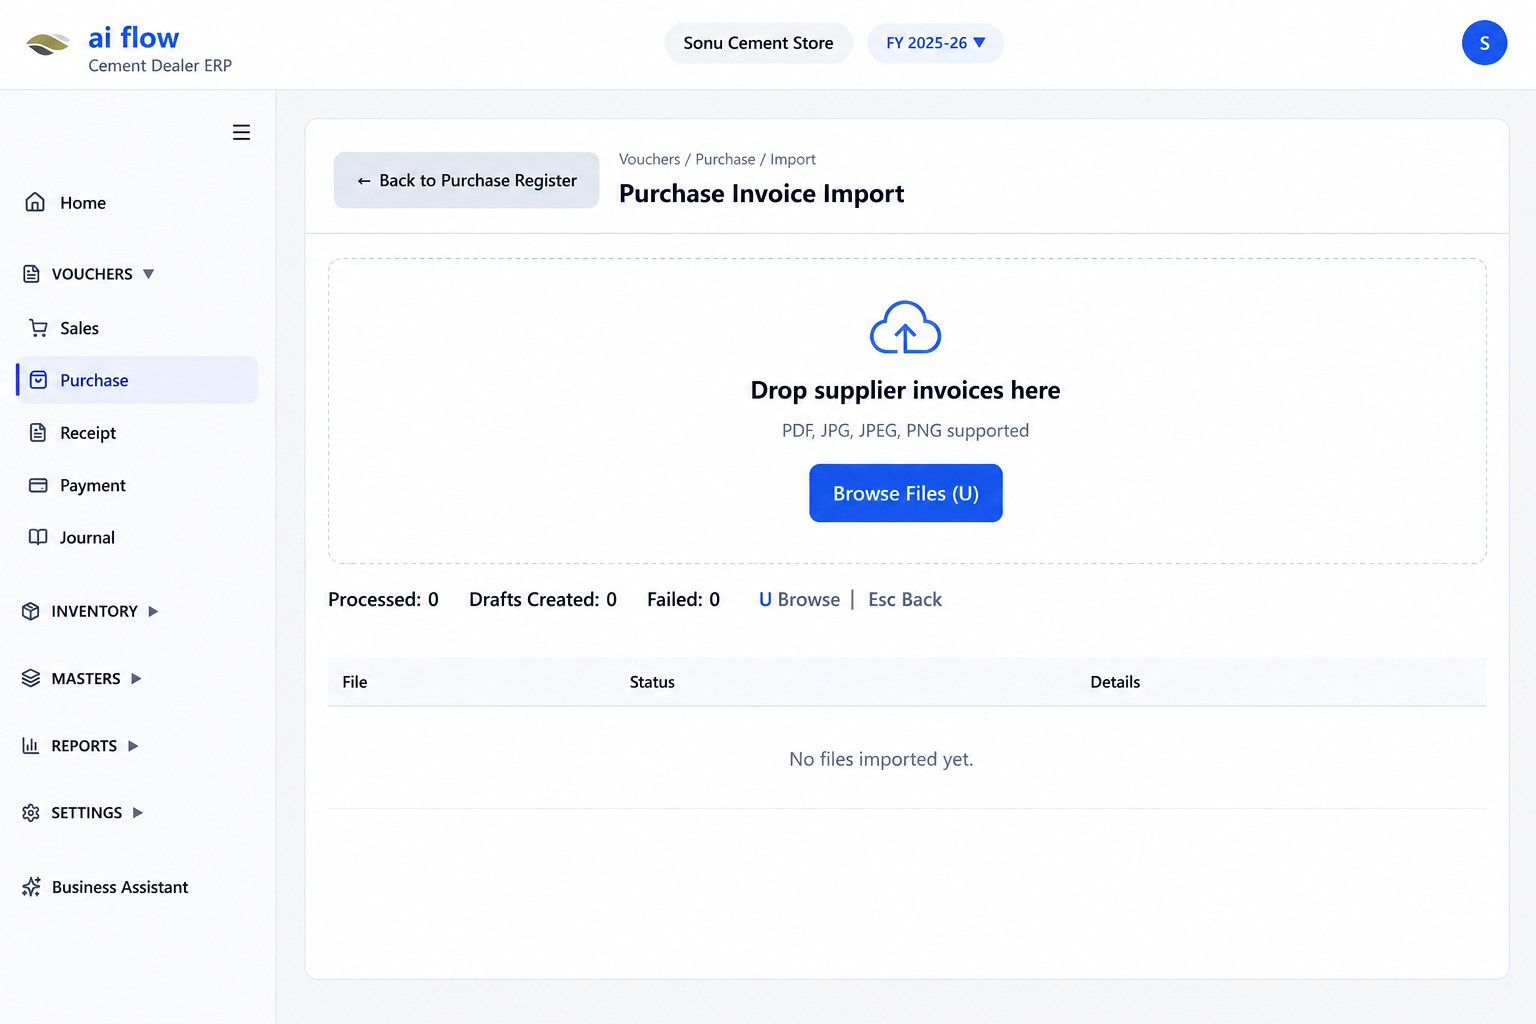
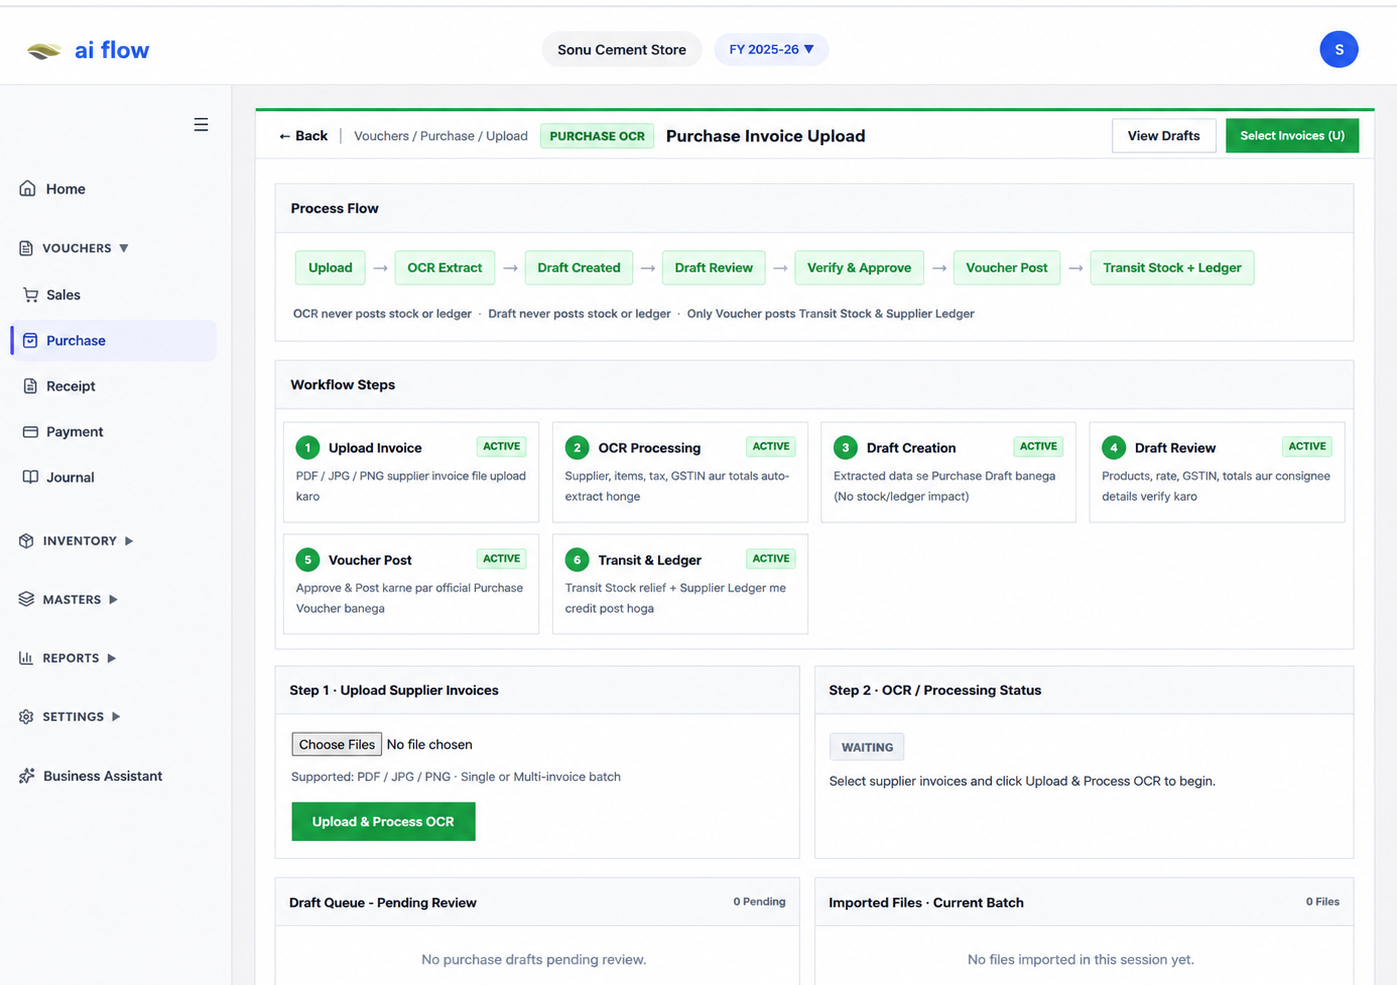
refactor: clean up workflow section styling and remove duplicate CSS
- Removed duplicate .workflow-section styling from globals.css
- Removed duplicated workflow grid and workflow card styles
- Consolidated workflow layout, cards, badges, and note styles into a single definition
- Preserved the existing workflow feature, callout, image, and responsive mobile styling
- Improved CSS maintainability by eliminating repeated selectors
- Kept the existing visual design and responsive behavior unchanged
- Ensured the workflow section has a clean and centralized stylesheet structure

diff --git a/app/globals.css b/app/globals.css
@@ -883,23 +883,7 @@ img {
   object-position: center 45%;
 }
 
-.workflow-image {
-  width: 100%;
-  max-width: 780px;
-  height: auto;
-  margin: 32px auto 36px;
-  overflow: hidden;
-  border: 1px solid var(--line);
-  border-radius: var(--radius-lg);
-  background: #f8fafc;
-  box-shadow: var(--shadow-lg);
-}
 
-.workflow-image img {
-  width: 100%;
-  height: auto;
-  display: block;
-}
 
 .reality-grid {
   display: grid;
@@ -980,18 +964,67 @@ img {
   border-bottom: 1px solid var(--line);
 }
 
-.workflow-rule-callout {
-  margin: 34px 0 38px;
-  padding: 24px 28px;
+/* =========================================================
+   12. WORKFLOW SECTION (SURFACE: LAYERED COOL SLATE)
+   ========================================================= */
 
+.workflow-section {
+  padding: var(--section-space) 0;
+  background:
+    radial-gradient(
+      circle at 80% 20%,
+      rgba(37, 99, 235, 0.05) 0%,
+      transparent 40%
+    ),
+    linear-gradient(180deg, #f8fafc 0%, #f1f5f9 100%);
+  border-bottom: 1px solid var(--line);
+}
+
+.workflow-feature {
+  display: grid;
+  grid-template-columns: 1.15fr 0.85fr;
+  gap: 24px;
+  align-items: stretch;
+  margin: 32px 0 38px;
+}
+
+.workflow-image {
+  width: 100%;
+  height: 100%;
+  min-height: 300px;
+  margin: 0;
+  overflow: hidden;
+  border: 1px solid var(--line);
+  border-radius: var(--radius-lg);
+  background: #f8fafc;
+  box-shadow: var(--shadow-lg);
+}
+
+.workflow-image img {
+  width: 100%;
+  height: 100%;
+  display: block;
+  object-fit: cover;
+  object-position: center;
+}
+
+.workflow-rule-callout {
+  margin: 0;
+  padding: 28px;
   display: flex;
   flex-direction: column;
-  gap: 8px;
+  justify-content: center;
+  gap: 10px;
 
-  background: linear-gradient(135deg, #ffffff 0%, #f0f7ff 100%);
+  background: linear-gradient(
+    135deg,
+    #ffffff 0%,
+    #f0f7ff 100%
+  );
+
   border: 1px solid #bfdbfe;
   border-left: 4px solid var(--primary);
-  border-radius: var(--radius-md);
+  border-radius: var(--radius-lg);
 
   box-shadow:
     0 4px 16px -2px rgba(37, 99, 235, 0.07),
@@ -1004,14 +1037,106 @@ img {
   gap: 10px;
 
   color: #1e40af;
-  font-size: 15.5px;
+  font-size: 16px;
   font-weight: 750;
+  line-height: 1.4;
 }
 
 .workflow-rule-description {
   color: #334155;
   font-size: 14.5px;
-  line-height: 1.65;
+  line-height: 1.7;
+}
+
+.workflow-grid {
+  display: grid;
+  grid-template-columns: repeat(4, 1fr);
+  gap: 18px;
+}
+
+.workflow-card {
+  min-height: 190px;
+  padding: 24px 20px;
+
+  display: flex;
+  flex-direction: column;
+  gap: 12px;
+
+  background: #ffffff;
+  border: 1px solid var(--line);
+  border-radius: var(--radius-md);
+
+  box-shadow: var(--shadow-xs);
+
+  transition:
+    transform 0.2s cubic-bezier(0.16, 1, 0.3, 1),
+    box-shadow 0.2s cubic-bezier(0.16, 1, 0.3, 1),
+    border-color 0.2s ease;
+}
+
+.workflow-card:hover {
+  transform: translateY(-3px);
+  border-color: #93c5fd;
+  box-shadow: var(--shadow-md);
+}
+
+.workflow-step-badge {
+  width: 30px;
+  height: 30px;
+
+  display: inline-flex;
+  align-items: center;
+  justify-content: center;
+
+  border-radius: var(--radius-sm);
+  background: #eff6ff;
+  border: 1px solid #dbeafe;
+  color: var(--primary);
+
+  font-size: 11.5px;
+  font-weight: 800;
+}
+
+.workflow-card h3 {
+  color: var(--ink);
+  font-size: 15.5px;
+  font-weight: 750;
+  letter-spacing: -0.01em;
+}
+
+.workflow-card p {
+  color: var(--muted);
+  font-size: 13px;
+  line-height: 1.6;
+}
+
+.workflow-note {
+  margin-top: 26px;
+  color: var(--muted);
+  font-size: 12.5px;
+  font-style: italic;
+  text-align: center;
+}
+
+@media (max-width: 768px) {
+  .workflow-feature {
+    grid-template-columns: 1fr;
+    gap: 20px;
+    margin-top: 28px;
+  }
+
+  .workflow-image {
+    min-height: 0;
+  }
+
+  .workflow-image img {
+    height: auto;
+    object-fit: contain;
+  }
+
+  .workflow-rule-callout {
+    padding: 24px;
+  }
 }
 
 .workflow-grid {

diff --git a/components/sections/WorkflowSection.js b/components/sections/WorkflowSection.js
@@ -5,7 +5,7 @@
  *
  * RESPONSIBILITIES:
  * - Render section header (eyebrow, title, description)
- * - Render prominent 'Company Billing is NOT Physical Stock' callout box
+ * - Render image and 'Company Billing is NOT Physical Stock' callout side-by-side
  * - Render real cement godown/loading visual
  * - Render 8-step real-world cement process cards
  * - Render clarifying footer note distinguishing conceptual flow from software modules
@@ -63,35 +63,39 @@ export function WorkflowSection({ cta = false }) {
           )}
         </div>
 
-        {workflow.ruleTitle && (
-          <div className="workflow-rule-callout">
-            <div className="workflow-rule-title">
-              <span aria-hidden="true">ℹ</span> {workflow.ruleTitle}
+        <div className="workflow-feature">
+          {workflow.image && (
+            <div className="workflow-image">
+              <Image
+                src={workflow.image}
+                alt="Cement bags and truck loading at a cement godown"
+                width={616}
+                height={247}
+                sizes="(max-width: 768px) 100vw, 58vw"
+                style={{
+                  width: "100%",
+                  height: "100%",
+                  objectFit: "cover",
+                  display: "block",
+                  borderRadius: "12px",
+                }}
+              />
             </div>
+          )}
 
-            <p className="workflow-rule-description">
-              <BrandText text={workflow.ruleDescription} />
-            </p>
-          </div>
-        )}
+          {workflow.ruleTitle && (
+            <div className="workflow-rule-callout">
+              <div className="workflow-rule-title">
+                <span aria-hidden="true">ℹ</span>{" "}
+                {workflow.ruleTitle}
+              </div>
 
-        {workflow.image && (
-          <div className="workflow-image">
-            <Image
-              src={workflow.image}
-              alt="Cement bags and truck loading at a cement godown"
-              width={616}
-              height={247}
-              sizes="(max-width: 768px) 100vw, 780px"
-              style={{
-                width: "100%",
-                height: "auto",
-                display: "block",
-                borderRadius: "12px",
-              }}
-            />
-          </div>
-        )}
+              <p className="workflow-rule-description">
+                <BrandText text={workflow.ruleDescription} />
+              </p>
+            </div>
+          )}
+        </div>
 
         <div className="workflow-grid">
           {workflow.steps.map((step, index) => (

diff --git a/content/siteContent.js b/content/siteContent.js
@@ -144,7 +144,7 @@ export const content = {
         title: "Lifting Management",
         description: "Lifting voucher and dispatch challan matching against purchase vouchers.",
         requirement: "Lifting management screen matching dispatch challans to purchase orders.",
-        image: "/images/erp/lifting-challan-upload.png",
+        image: "/images/erp/lifting-challan-upload-v2.png",
       },
       {
         id: "ledgers",
